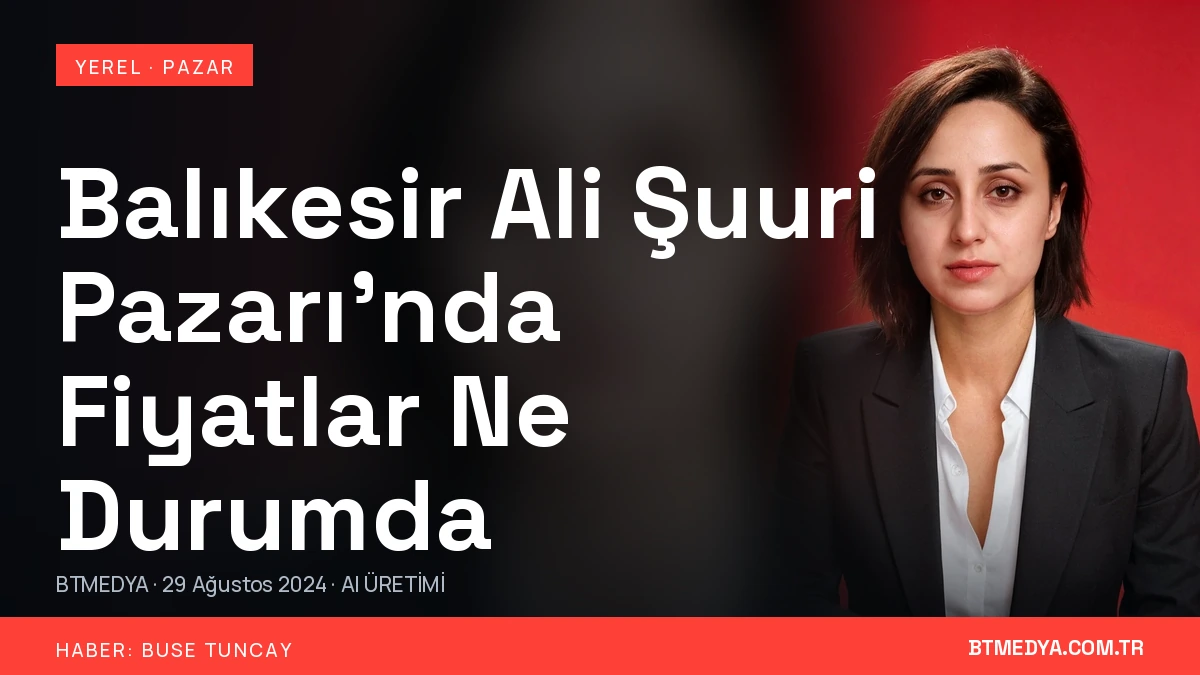
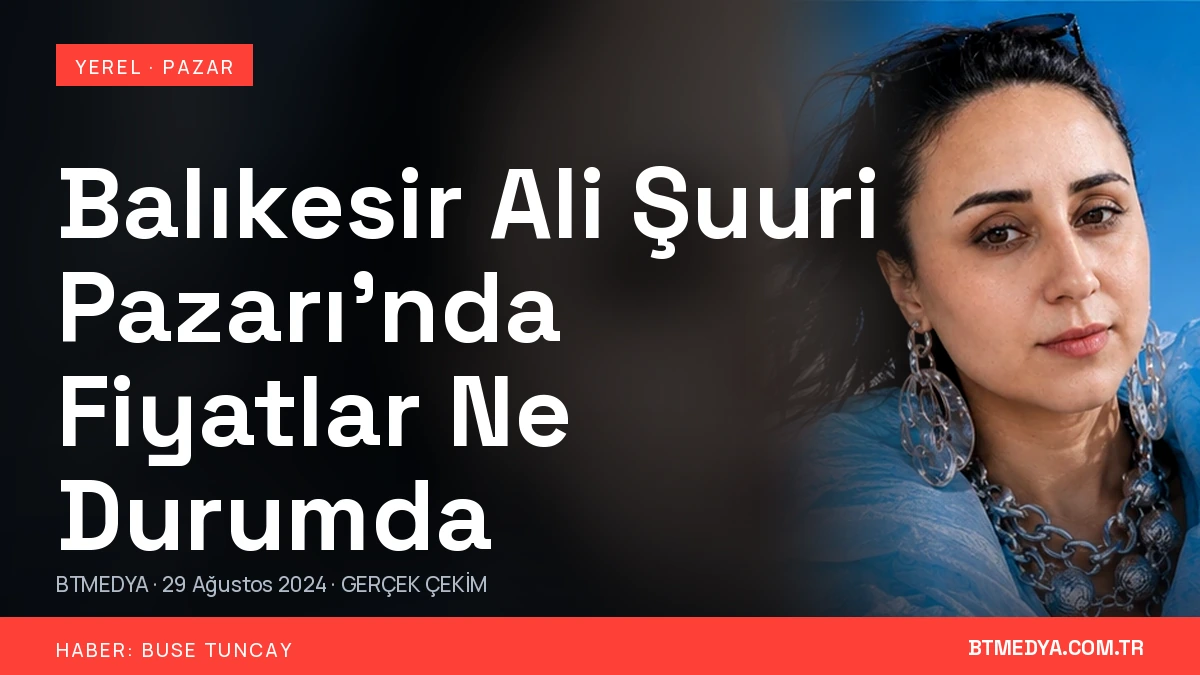
Yapay zeka karesine basilan GERCEK CEKIM etiketini kaldir
Anasayfanin 01/HABER sekmesi "GERCEK CEKIM · BUSE TUNCAY" diyordu ama
gosterdigi kare yapay zeka uretimiydi ve muhabirin yuzu degildi. Ayni
kare 30 haber kapagindan 4'unde ve sayfa gecisi katmaninda da
kullaniliyordu. Bir haber markasinda bu dogrudan yanlis beyan.

- 01/HABER -> buse-tuncay-saha-roportaj.webp (BTMEDYA mikrofonuyla
  gercek saha roportaji), 02/PRODUKSIYON -> buse-tuncay-kamera-arkasi.webp,
  03/MEDYA -> buse-tuncay-portre-01.webp. Dort sekmenin ucu artik
  muhabirin gercek karesi; kaynak etiketleri dogru.
- Kapak havuzundan "sunucu" karesi cikarildi; 4 haber gercek karelere
  dagitildi ve kapaklari yeniden uretildi. Plandaki 30 kapagin tamami
  artik gercek cekimden geliyor.
- public/data/haber-kapak-kaynagi.json geri getirildi; kapak havuzundan
  turetilir (tools/haber-kapagi.py). Haber kartlari rozeti bu dosyadan
  okur, kodda sabit durmaz.
- tools/gerileme-denetimi.mjs iki yeni kural: GERCEK CEKIM etiketi
  medya-ozel.json gercek listesinde olmayan bir kareye basilamaz; kapak
  kaynak kaydi planla ayrisamaz. Ikisi de hatali surumde dogrulandi.

Claude-Session: https://claude.ai/code/session_0171dPhWTz6DyHWBiEA6TDVm

Changed region(s): [[0.5858, 0.0, 1.0, 0.9333], [0.4933, 0.3422, 0.6167, 0.4667], [0.2775, 0.84, 0.4008, 0.9022]]

diff --git a/public/index.html b/public/index.html
@@ -102,9 +102,9 @@
       <div class="bt-world-caption"><span data-world-kicker>01 / HABER</span><strong data-world-title>SAHADA, KAMERANIN ÖNÜNDE.</strong><small data-world-source>GERÇEK ÇEKİM · BUSE TUNCAY</small></div>
     </div>
     <div class="bt-world-nav" role="tablist" aria-label="BTMEDYA kategorileri">
-      <button class="bt-world-tab is-active" type="button" role="tab" aria-selected="true" data-world="haber" data-image="/assets/media/portfoy/buse-tuncay-sunucu-kirmizi.webp" data-kicker="01 / HABER" data-title="SAHADA, KAMERANIN ÖNÜNDE." data-source="GERÇEK ÇEKİM · BUSE TUNCAY" data-desc="Yerel ve ulusal gündem, saha haberi, röportaj, video haber ve özel dosya." data-link="/haberler/">HABER <span>↗</span></button>
-      <button class="bt-world-tab" type="button" role="tab" aria-selected="false" data-world="studio" data-image="/assets/media/ai-lab/btmedya-siber-sunucu-01.webp" data-kicker="02 / PRODÜKSİYON" data-title="FİKİRDEN ÇEKİME, ÇEKİMDEN YAYINA." data-source="BT STUDIO · GÖRSEL ÜRETİM" data-desc="Tanıtım filmi, belgesel, reklam, röportaj, kamera ve kurgu." data-link="#medya">PRODÜKSİYON <span>↗</span></button>
-      <button class="bt-world-tab" type="button" role="tab" aria-selected="false" data-world="media" data-image="/assets/media/portfoy/buse-tuncay-saha-roportaj.webp" data-kicker="03 / MEDYA" data-title="İÇERİĞİ, PLATFORMUNA GÖRE ÜRET." data-source="GERÇEK ÇEKİM · PORTFÖY" data-desc="Fotoğraf, kısa video, Reels, sosyal medya içerikleri ve marka iletişimi." data-link="#portfoy">MEDYA <span>↗</span></button>
+      <button class="bt-world-tab is-active" type="button" role="tab" aria-selected="true" data-world="haber" data-image="/assets/media/portfoy/buse-tuncay-saha-roportaj.webp" data-kicker="01 / HABER" data-title="SAHADA, KAMERANIN ÖNÜNDE." data-source="GERÇEK ÇEKİM · BUSE TUNCAY" data-desc="Yerel ve ulusal gündem, saha haberi, röportaj, video haber ve özel dosya." data-link="/haberler/">HABER <span>↗</span></button>
+      <button class="bt-world-tab" type="button" role="tab" aria-selected="false" data-world="studio" data-image="/assets/media/portfoy/buse-tuncay-kamera-arkasi.webp" data-kicker="02 / PRODÜKSİYON" data-title="FİKİRDEN ÇEKİME, ÇEKİMDEN YAYINA." data-source="GERÇEK ÇEKİM · BUSE TUNCAY" data-desc="Tanıtım filmi, belgesel, reklam, röportaj, kamera ve kurgu." data-link="#medya">PRODÜKSİYON <span>↗</span></button>
+      <button class="bt-world-tab" type="button" role="tab" aria-selected="false" data-world="media" data-image="/assets/media/portfoy/buse-tuncay-portre-01.webp" data-kicker="03 / MEDYA" data-title="İÇERİĞİ, PLATFORMUNA GÖRE ÜRET." data-source="GERÇEK ÇEKİM · PORTFÖY" data-desc="Fotoğraf, kısa video, Reels, sosyal medya içerikleri ve marka iletişimi." data-link="#portfoy">MEDYA <span>↗</span></button>
       <button class="bt-world-tab" type="button" role="tab" aria-selected="false" data-world="ai" data-image="/assets/media/ai-lab/btmedya-siber-sunucu-02.webp" data-kicker="04 / AI LAB" data-title="YENİ TEKNOLOJİYİ ÜRETİME BAĞLA." data-source="AI ÜRETİMİ · AÇIKÇA ETİKETLİ" data-desc="AI video, AI görsel, otomasyon ve etkileşimli web deneyimleri." data-link="#ai-lab">AI LAB <span>↗</span></button>
     </div>
     <div class="bt-world-detail" data-world-detail>Yerel gündem, saha haberi, röportaj, video haber ve özel dosya.</div>

diff --git a/public/home.js b/public/home.js
@@ -198,6 +198,10 @@
   const newsGrid = d.getElementById('newsGrid');
   const filterBar = d.getElementById('newsFilter');
   let allNews = [];
+  /* Kapak karesinin kaynagi (gercek cekim / AI uretimi). Uretici
+     tools/haber-kapagi.py bu dosyayi kapak havuzundan turetir; rozet
+     kodda sabit durmadigi icin kare degisince etiket de degisir. */
+  let kapakKaynagi = {};
 
   const dateText = item => item.original_date || (item.published_at ? new Date(item.published_at).toLocaleDateString('tr-TR') : '');
   /* Kapak kurali haber detay sayfasiyla ayni olmali (src/news-page.js:57).
@@ -222,7 +226,12 @@
        kapagin uzerindeki baslik kartin kendi basligiyla ust uste binip
        ikisini de okunmaz hale getiriyordu. Bestelenmis kapak paylasim
        gorseli (og:image) ve makale sayfasi kunyesi olarak kaliyor. */
-    if (cover) return `<div class="news-media"><img src="${esc(kartGorseli(cover))}" alt="${esc(n.title)}" loading="lazy" decoding="async" data-kapak-yedegi="1"><div class="news-scrim"></div></div>`;
+    if (cover) {
+      const kaynak = kapakKaynagi[n.slug] === 'ai' ? 'AI ÜRETİMİ'
+        : kapakKaynagi[n.slug] === 'gercek' ? 'GERÇEK ÇEKİM'
+        : '';  /* Kayit yoksa rozet basilmaz: bilmedigimizi uydurmaktansa susariz. */
+      return `<div class="news-media"><img src="${esc(kartGorseli(cover))}" alt="${esc(n.title)}" loading="lazy" decoding="async" data-kapak-yedegi="1"><div class="news-scrim"></div>${kaynak?`<span class="news-kaynak">${esc(kaynak)}</span>`:''}</div>`;
+    }
     return `<div class="news-media news-no-cover"><div class="news-archive-mark"><span>BTMEDYA / ARŞİV</span><b>GERÇEK HABER</b></div><div class="news-scrim"></div></div><span class="reference-note">KAPAK BEKLİYOR</span>`;
   };
   const storyMedia = n => {
@@ -278,6 +287,10 @@
   };
 
   const loadNews = async () => {
+    try {
+      const r = await fetch('/data/haber-kapak-kaynagi.json', {headers:{accept:'application/json'}});
+      if (r.ok) kapakKaynagi = await r.json();
+    } catch { kapakKaynagi = {}; }
     try {
       const r = await fetch('/api/news?limit=100', {headers:{accept:'application/json'}});
       if (!r.ok) throw new Error('api');

diff --git a/public/home.css b/public/home.css
@@ -148,3 +148,11 @@ footer{padding:35px var(--pad);display:grid;grid-template-columns:1fr auto auto;
   .cinematic-copy{z-index:8}
   .cinematic-kicker{color:#7fe4ff}
 }
+
+/* ===== HABER KARTI KAYNAK ROZETİ =====
+   AGENTS.md: sitedeki her kare AI ÜRETİMİ ya da GERÇEK ÇEKİM etiketi taşır.
+   Kart görselinin üzerinde durur; künye satırı (kategori) ile karışmasın
+   diye sağ üstte ve ayrı bir kutu içinde. Etiketin kendisi
+   public/data/haber-kapak-kaynagi.json'dan gelir, kodda sabit değildir. */
+.news-kaynak{position:absolute;top:12px;right:12px;z-index:2;font:700 9px/1 Jet,monospace;letter-spacing:.1em;color:#fff;background:rgba(4,7,11,.78);border:1px solid rgba(255,255,255,.26);border-radius:999px;padding:7px 11px;backdrop-filter:blur(6px)}
+@media(max-width:720px){.news-kaynak{top:10px;right:10px;padding:6px 9px;font-size:8px}}

diff --git a/public/script.js b/public/script.js
@@ -692,8 +692,8 @@ document.addEventListener('DOMContentLoaded',()=>{
   document.body.appendChild(overlay);
   let img=null;
   const map=[
-    [/(^|\/)haber/i,'/assets/media/portfoy/buse-tuncay-sunucu-kirmizi.webp','01 / HABER'],
-    [/(^|\/)(portfoy|medya|studio)/i,'/assets/media/portfoy/buse-tuncay-saha-roportaj.webp','03 / MEDYA'],
+    [/(^|\/)haber/i,'/assets/media/portfoy/buse-tuncay-saha-roportaj.webp','01 / HABER'],
+    [/(^|\/)(portfoy|medya|studio)/i,'/assets/media/portfoy/buse-tuncay-kamera-arkasi.webp','03 / MEDYA'],
     [/(^|\/|#)ai-lab/i,'/assets/media/ai-lab/btmedya-siber-sunucu-02.webp','04 / AI LAB'],
     [/(^|\/)(iletisim|hakkimizda)/i,'/assets/media/portfoy/buse-tuncay-portre-01.webp','BTMEDYA']
   ];

diff --git a/tools/haber-kapagi.py b/tools/haber-kapagi.py
@@ -250,6 +250,25 @@ def havuz():
         return {k["ad"]: k for k in json.load(f)}
 
 
+def kaynak_dosyasi(kareler, plan_kayitlari):
+    """Her haberin kapak karesinin kaynagini (gercek cekim / AI uretimi)
+    diske yazar.
+
+    Rozeti kodun icine sabitlemek yanlis beyana aciktir: kapak karesi
+    degistiginde etiket eskisi gibi kalir. Havuzun 'gercek' alani tek
+    dogruluk kaynagi; site bu dosyayi okuyup rozeti ona gore basar."""
+    kayit = {}
+    for h in plan_kayitlari:
+        kare = kareler.get(h.get("foto") or "")
+        kayit[h["slug"]] = "gercek" if (kare and kare.get("gercek")) else "ai"
+    yol = os.path.join(KOK, "public", "data", "haber-kapak-kaynagi.json")
+    with open(yol, "w", encoding="utf-8") as f:
+        json.dump(kayit, f, ensure_ascii=False, indent=1, sort_keys=True)
+        f.write("\n")
+    g = sum(1 for v in kayit.values() if v == "gercek")
+    return len(kayit), g
+
+
 if __name__ == "__main__":
     istenen = set(sys.argv[1:])
     hedef = os.path.join(KOK, "public", "assets", "haber-kapak")
@@ -278,3 +297,5 @@ if __name__ == "__main__":
         print(f"  {'F' if foto else ' '} {h['slug'][:40]:42} {boyut/1024:>5.0f} KB{kb}")
     print(f"\n  {n} kapak uretildi ({fotolu} fotografli, {n-fotolu} editoryal).")
     print(f"  {fotolu} metinsiz kart gorseli uretildi.")
+    toplam, gercek = kaynak_dosyasi(kareler, plan())
+    print(f"  haber-kapak-kaynagi.json: {toplam} kayit ({gercek} gercek cekim).")
